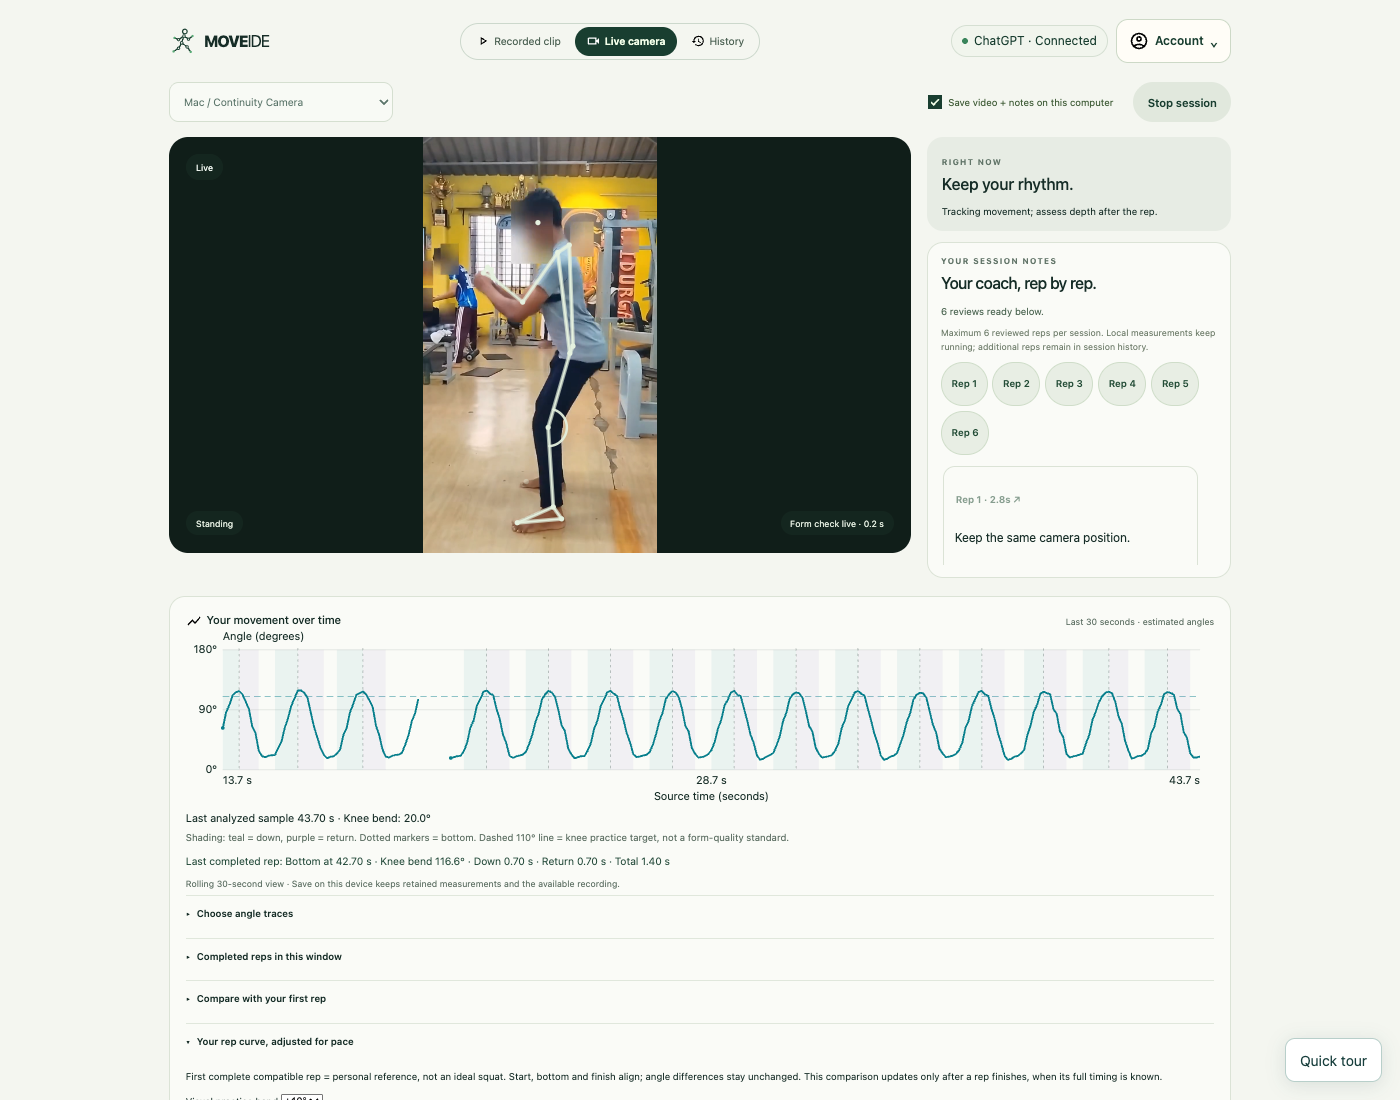
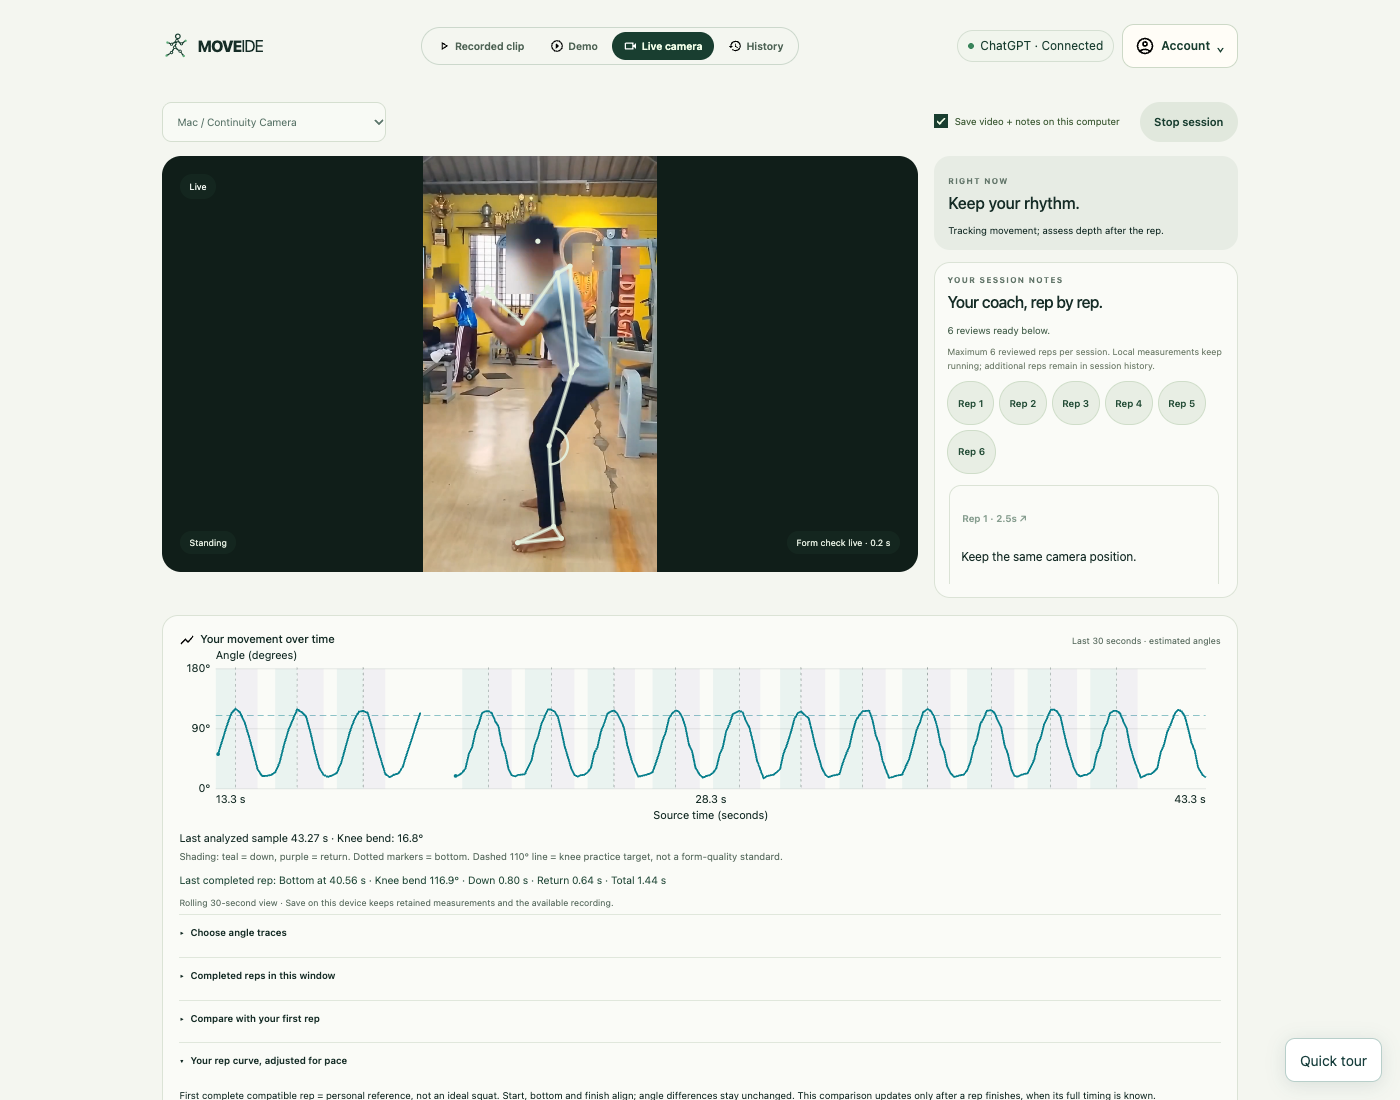
Smooth Live camera page loads and log ChatGPT sign-in failures
- Remember the coach connection state per tab so the header chip doesn't swap mid-fade
- Drop the named header view transition (it slid on scrolled pages) and hold first paint on every page
- Adjust header spacing, add a demo launch config
- Log sign-in callback and token-exchange errors with detail
- Refresh browser-verification, portable-session and QA screenshot evidence

diff --git a/harness/live/app.css b/harness/live/app.css
@@ -76,7 +76,7 @@ main:has(#stop:not([hidden])) .source-label,main:has(#stop:not([hidden])) .start
 @media (min-width: 1001px) { main:has(#stop:not([hidden])) .stage { min-height: max(375px, clamp(340px,48vh,440px)); } }
 
 /* Compact session workspace: one clear capture area, one coaching column. */
-main{max-width:1440px;padding:30px 48px 40px}.moveide-header{padding-bottom:24px;row-gap:12px}.intro{gap:36px;align-items:center;margin-bottom:24px}.intro>div:first-child{flex:1;min-width:0}.intro h1{font-size:clamp(34px,4vw,52px);margin:8px 0 10px}.intro .subhead{max-width:440px;font-size:14px}.intro .actions{width:min(440px,100%);flex:none;display:grid;grid-template-columns:minmax(0,1fr) auto;gap:8px 12px;align-items:center}.source-label{grid-column:1/-1;margin:0}#source{max-width:none;min-height:50px}.intro .save-local,.intro .start-disclosure{grid-column:1/-1;max-width:none;margin:0}.intro .save-local{min-height:36px}.intro #start,.intro #stop{grid-column:2;grid-row:2;min-height:50px;padding:12px 18px}.intro #source{grid-column:1;grid-row:2}.intro #start span{margin-left:10px}.panel{padding:18px}.metrics{margin:16px 0;gap:16px}.metrics dd{font-size:25px}.target{margin-top:0}.feedback h2{font-size:22px;margin:10px 0 8px}.coaching-feed{background:#fafbf7;border:1px solid #dbe3d6;border-radius:20px;padding:18px;min-width:0}.feed-heading h2{font-size:20px}.coaching-feed #ai-empty{margin:10px 0 0;line-height:1.6;color:#647462}.coaching-feed:has(#ai-feed:empty) #ai-empty{padding:16px 0}.live-trends{margin:20px 0}.session-strip{padding:18px 4px;gap:20px}.recording-panel{padding:16px 4px}.material-icon{width:20px;height:20px;display:inline-block;vertical-align:middle;flex:none;margin-right:6px}.source-nav a{gap:5px}.source-nav .material-icon{width:18px;height:18px;margin:0}.source-nav a[aria-current=page] .material-icon{filter:brightness(0) invert(1)}
+main{max-width:1440px;padding:30px 48px 40px}.moveide-header{padding-bottom:42px;row-gap:12px}.intro{gap:36px;align-items:center;margin-bottom:24px}.intro>div:first-child{flex:1;min-width:0}.intro h1{font-size:clamp(34px,4vw,52px);margin:8px 0 10px}.intro .subhead{max-width:440px;font-size:14px}.intro .actions{width:min(440px,100%);flex:none;display:grid;grid-template-columns:minmax(0,1fr) auto;gap:8px 12px;align-items:center}.source-label{grid-column:1/-1;margin:0}#source{max-width:none;min-height:50px}.intro .save-local,.intro .start-disclosure{grid-column:1/-1;max-width:none;margin:0}.intro .save-local{min-height:36px}.intro #start,.intro #stop{grid-column:2;grid-row:2;min-height:50px;padding:12px 18px}.intro #source{grid-column:1;grid-row:2}.intro #start span{margin-left:10px}.panel{padding:18px}.metrics{margin:16px 0;gap:16px}.metrics dd{font-size:25px}.target{margin-top:0}.feedback h2{font-size:22px;margin:10px 0 8px}.coaching-feed{background:#fafbf7;border:1px solid #dbe3d6;border-radius:20px;padding:18px;min-width:0}.feed-heading h2{font-size:20px}.coaching-feed #ai-empty{margin:10px 0 0;line-height:1.6;color:#647462}.coaching-feed:has(#ai-feed:empty) #ai-empty{padding:16px 0}.live-trends{margin:20px 0}.session-strip{padding:18px 4px;gap:20px}.recording-panel{padding:16px 4px}.material-icon{width:20px;height:20px;display:inline-block;vertical-align:middle;flex:none;margin-right:6px}.source-nav a{gap:5px}.source-nav .material-icon{width:18px;height:18px;margin:0}.source-nav a[aria-current=page] .material-icon{filter:brightness(0) invert(1)}
 @media(min-width:1100px){
  main{grid-template-columns:minmax(0,1fr) 380px;column-gap:20px;grid-template-areas:"header header" "intro intro" "pairing pairing" "setup setup" "stage feedback" "stage feed" "chart chart" "metrics target" "recording recording" "strip strip" "footer footer";grid-template-rows:auto auto auto auto auto auto auto auto auto auto auto}
  .stage{min-height:450px;height:100%;max-height:570px;align-self:stretch}.coaching-feed{height:300px;padding:18px;margin-top:14px;overflow:hidden}.feedback{align-self:start}.live-trends{margin:22px 0 0}.metrics{margin:14px 0;gap:16px}.panel-heading h2{font-size:14px}.target{margin-top:16px}.target p{margin:8px 0}aside>.panel:nth-child(2){margin-top:16px}.panel .fine{font-size:11px}.coaching-feed .eyebrow{margin-top:0}.coaching-feed #ai-feed{margin-top:10px}
@@ -84,7 +84,7 @@ main{max-width:1440px;padding:30px 48px 40px}.moveide-header{padding-bottom:24px
 }
 @media(min-width:731px) and (max-width:1099px){.intro{align-items:center}.intro .actions{width:340px}.workspace{grid-template-columns:minmax(0,1fr) 280px}.stage{min-height:430px}.coaching-feed{margin-top:20px}.live-trends{margin:20px 0}.panel{padding:16px}}
 @media(max-width:1000px){main{padding:24px 24px 40px}}
-@media(max-width:730px){main{padding:20px 16px 32px;gap:18px}.moveide-header{padding-bottom:4px;gap:12px}.intro .actions{width:100%;margin-top:18px}.intro h1{font-size:36px}.intro .subhead{font-size:13px}.intro #source{min-width:0}.intro #start,.intro #stop{font-size:12px;padding:12px}.stage{min-height:320px;max-height:480px;border-radius:20px}.coaching-feed{margin:0;padding:16px}.live-trends{margin:0;padding:16px}.metrics{grid-template-columns:repeat(4,minmax(0,1fr));gap:8px}.metrics dd{font-size:23px}.metrics dt{font-size:10px}.panel{padding:16px}.target{display:flex;align-items:center;gap:8px;flex-wrap:wrap}.target .fine{flex-basis:100%;margin-top:0}.session-strip{gap:16px;padding:12px 0}.recording-panel{padding:8px 0}main:has(#stop:not([hidden])) .intro{margin-bottom:0}main:has(#stop:not([hidden])) .actions{gap:10px}.start-disclosure{font-size:11px}#ai-feed{max-height:320px}}
+@media(max-width:730px){main{padding:20px 16px 32px;gap:18px}.moveide-header{padding-bottom:12px;gap:12px}.intro .actions{width:100%;margin-top:18px}.intro h1{font-size:36px}.intro .subhead{font-size:13px}.intro #source{min-width:0}.intro #start,.intro #stop{font-size:12px;padding:12px}.stage{min-height:320px;max-height:480px;border-radius:20px}.coaching-feed{margin:0;padding:16px}.live-trends{margin:0;padding:16px}.metrics{grid-template-columns:repeat(4,minmax(0,1fr));gap:8px}.metrics dd{font-size:23px}.metrics dt{font-size:10px}.panel{padding:16px}.target{display:flex;align-items:center;gap:8px;flex-wrap:wrap}.target .fine{flex-basis:100%;margin-top:0}.session-strip{gap:16px;padding:12px 0}.recording-panel{padding:8px 0}main:has(#stop:not([hidden])) .intro{margin-bottom:0}main:has(#stop:not([hidden])) .actions{gap:10px}.start-disclosure{font-size:11px}#ai-feed{max-height:320px}}
 
 /* Keep the coaching feed immediately after video on narrow screens. */
 @media(max-width:730px){.coaching-feed{order:4}.live-trends{order:5}}

diff --git a/vite.config.ts b/vite.config.ts
@@ -37,7 +37,7 @@ export default defineConfig({
     configurePreviewServer: (server) => provider(server, true),
     // Hold the app's first paint until React has rendered (src/main.tsx), so the page-load
     // cross-fade from Live camera shows the finished view. Vite drops this attribute from source HTML.
-    transformIndexHtml: { order: 'post', handler: (html, ctx) => ctx.path === '/index.html' ? html.replace(/<script type="module"/g, '<script type="module" blocking="render"') : html },
+    transformIndexHtml: { order: 'post', handler: html => html.replace(/<script type="module"/g, '<script type="module" blocking="render"') },
     async writeBundle() {
       await mkdir(local('dist/fixtures/squat/'), { recursive: true });
       await Promise.all([

diff --git a/harness/public/brand.css b/harness/public/brand.css
@@ -5,9 +5,8 @@
 .moveide-brand span { font-weight: 400; }
 .moveide-brand:focus-visible { outline: 3px solid #58ac76; outline-offset: 4px; border-radius: 6px; }
 
-/* Live camera is a separate page: cross-fade page loads and hold the shared header still. */
+/* Live camera is a separate page: cross-fade page loads. No named header: a scrolled page would slide it. */
 @view-transition { navigation: auto; }
-.moveide-header { view-transition-name: moveide-header; }
 @media (prefers-reduced-motion: reduce) { ::view-transition-group(*), ::view-transition-old(*), ::view-transition-new(*) { animation: none !important; } }
 .source-nav a { gap: 5px; }
 .source-nav .material-icon { width: 18px; height: 18px; margin: 0; flex: none; }
